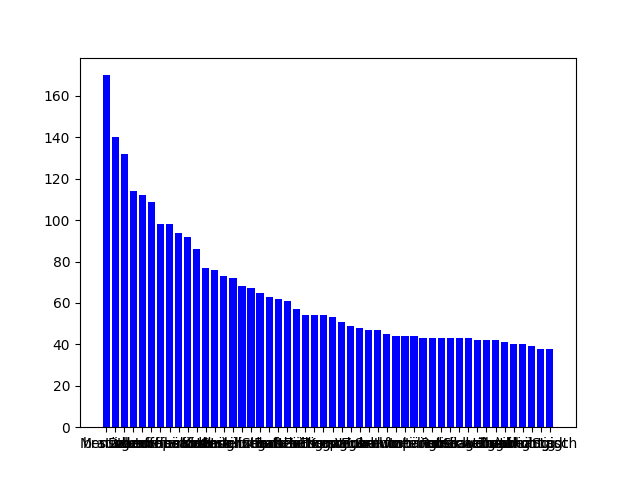
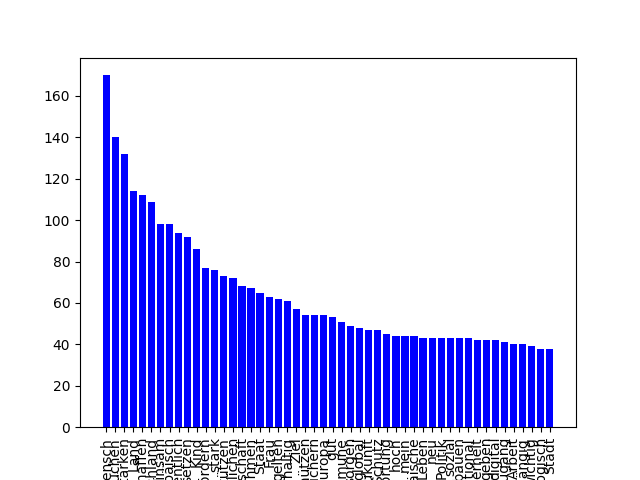
rotate xLabels

Changed region(s): [[0.125, 0.9062, 0.9062, 1.0]]

diff --git a/main.py b/main.py
@@ -141,7 +141,7 @@ print('\n')
 print('\n')
 
 x = np.arange(50)
-plt.xticks(x, listX)
+plt.xticks(x, listX, rotation='vertical')
 plt.bar(listX, listY, color='blue')
 plt.savefig('graphGruene.png')
 plt.show()
